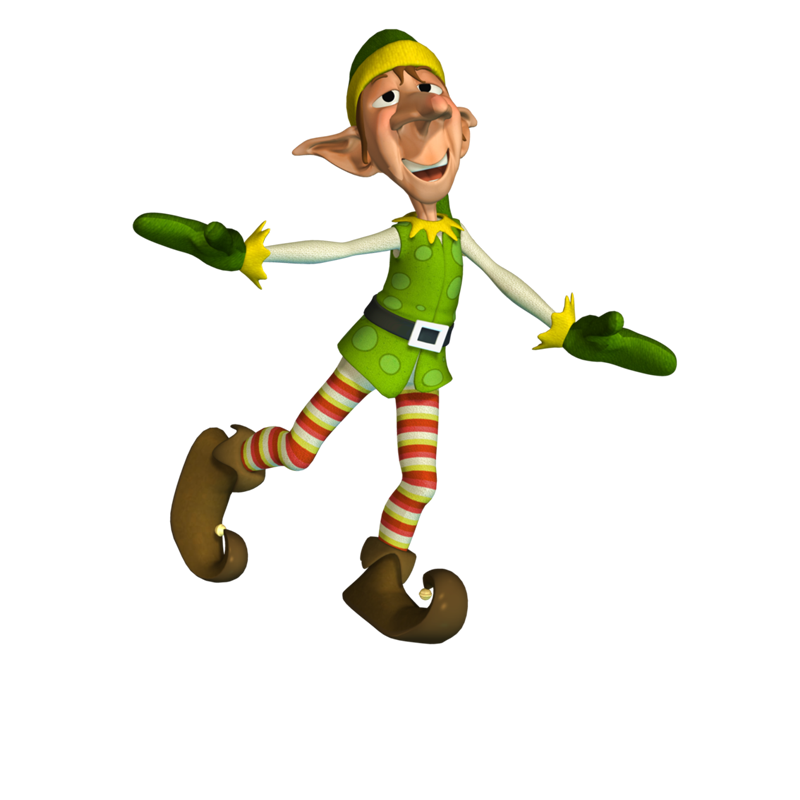
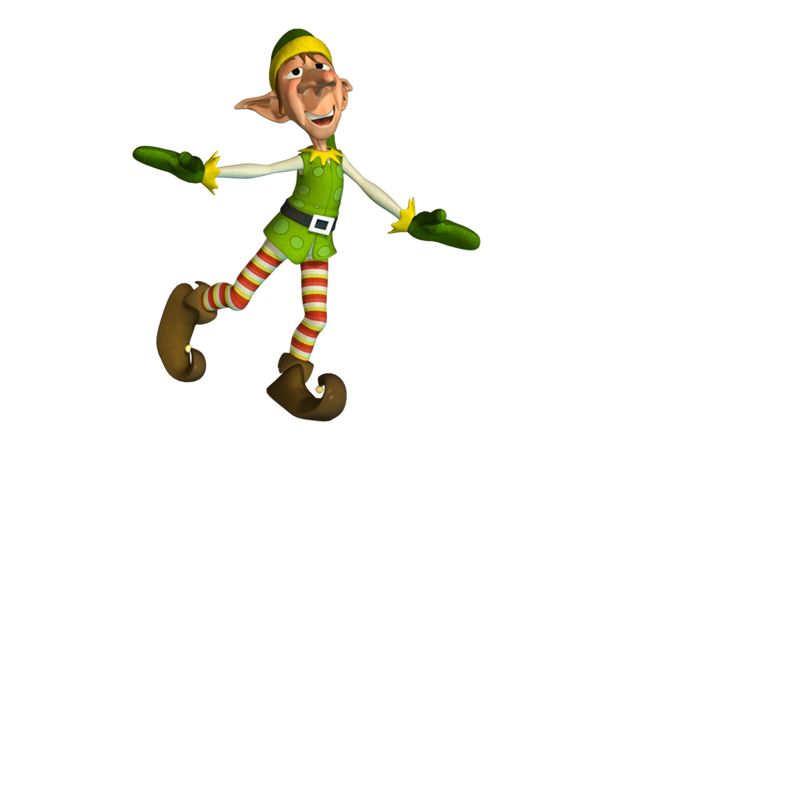
resize elf body and more specific stylings. Go get 'em, Daveed!

Changed region(s): [[0.1562, 0.0312, 0.8438, 0.8125]]

diff --git a/app/views/main.html b/app/views/main.html
@@ -1,6 +1,6 @@
 <div ng-controller="emilyChristmasController">
 
-  <section class="emily" ng-class="normalizeBackground()">
+  <section class="emily" ng-class="normalizeAsset('background')">
 
 
     <div>
@@ -10,16 +10,16 @@
 
     <h1>{{title}}</h1>
 
-    <div class="body" ng-repeat="image in bodies" id="{{image}}">
+    <div class="body" ng-repeat="image in bodies" ng-class="normalizeAsset('body')">
       <img ng-src="{{body}}" ng-show="itemSelected(image, 'body')">
     </div>
-    
-    <div class="face" ng-repeat="image in faces" id="{{image}}">
+
+    <div class="face" ng-repeat="image in faces" ng-class="normalizeAsset('face')">
       <img ng-src="{{face}}" ng-show="itemSelected(image, 'face')">
     </div>
 
 
-    <div class="hat" ng-repeat="image in hats" id="{{image}}">
+    <div class="hat" ng-repeat="image in hats" ng-class="normalizeAsset('hat')">
       <img ng-src="{{hat}}" ng-show="itemSelected(image, 'hat')">
     </div>
 

diff --git a/app/styles/main.scss b/app/styles/main.scss
@@ -51,15 +51,29 @@ $icon-font-path: "../bower_components/bootstrap-sass-official/assets/fonts/boots
 .hat {
   position: absolute;
   left: 50%;
-  margin-left: -15%;
-  top: 0%;
+  &.santa_hat {
+    margin-left: -15%;
+    top: 0%;
+  }
+  &.elf_hat {
+    margin-left: -7%;
+  }
+  &.bowler {
+    margin-left: -12%;
+  }
 }
 
 .body {
   position: absolute;
   left: 50%;
-  margin-left: -15%;
-  top: 50%;
+  &.santa_body {
+    margin-left: -15%;
+    top: 50%;
+  }
+  &.elf_body {
+    margin-left: -26%;
+    top: 41%;
+  }
 }
 
 

diff --git a/app/scripts/controllers/main.js b/app/scripts/controllers/main.js
@@ -53,8 +53,8 @@ angular.module('emilyChristmas2014App')
     $scope.itemSelected = function(item, group){
       return ($scope[group] === item);
     };
-    $scope.normalizeBackground = function(){
-      return $scope.background.slice(7,-4);
+    $scope.normalizeAsset = function(item){
+      return $scope[item].slice(7,-4);
     };
 
   });
